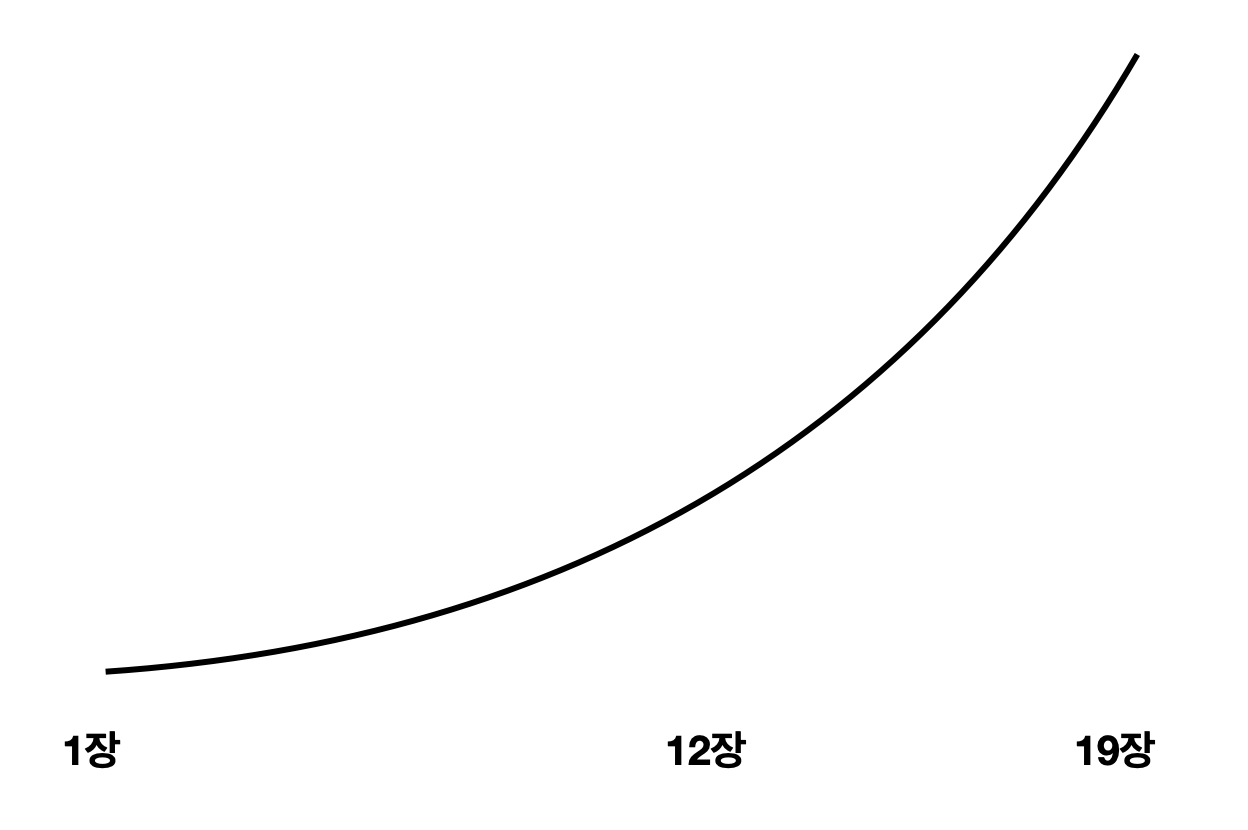
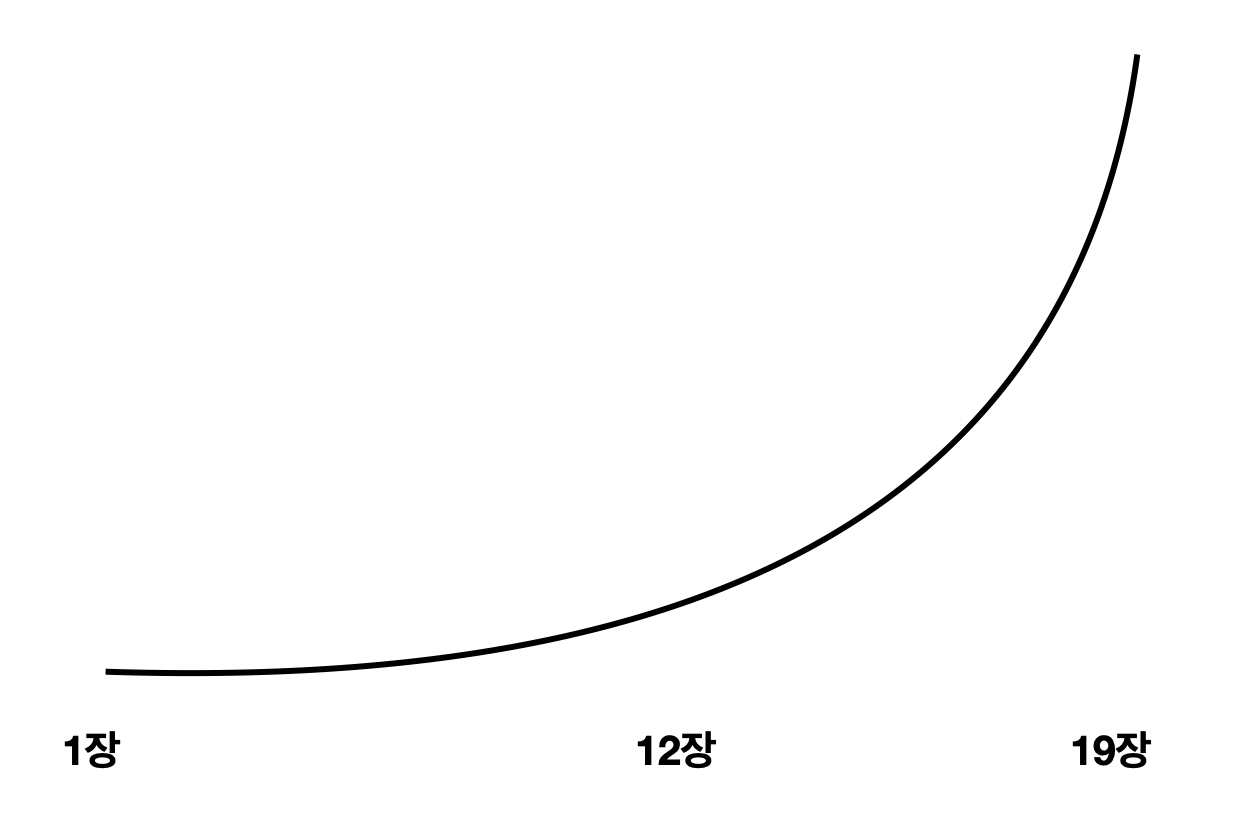
polish

diff --git a/_posts/web-development/book/2023-07-01-typescript-easy-start.md b/_posts/web-development/book/2023-07-01-typescript-easy-start.md
@@ -54,7 +54,7 @@ tags:
 
 ## 대상 독자 - 이 책은 누가 읽어야 하나?
 
-이 책은 서점에 타입스크립트 입문서라고 소개되어 있습니다. 입문서이기 때문에 당연히 타입스크립트를 처음 배우시는 분들이 보기 좋은 책이라고 생각하실 것 같아요. 네, 저도 당연히 타입스크립트를 배우기 전 시점으로 돌아간다면 이 책으로 타입스크립트를 배우고 싶을 것 같아요. 제가 오랜 기간 동안 쓴 책이라서 그런 게 아니라 **제가 여태까지 개발자로서 경험한 모든 타입스크립트의 내용을 집약하고 압축했기 때문입니다.**
+이 책은 서점에 타입스크립트 입문서라고 소개되어 있습니다. 입문서이기 때문에 당연히 타입스크립트를 처음 배우시는 분들이 보기 좋은 책이라고 생각하실 것 같아요. 저도 당연히 타입스크립트를 배우기 전 시점으로 돌아간다면 이 책으로 타입스크립트를 배우고 싶을 것 같아요. 제가 오랜 기간 동안 쓴 책이라서 그런 게 아니라 **제가 여태까지 개발자로서 경험한 모든 타입스크립트의 내용을 집약하고 압축했기 때문입니다.** 과거에 지식을 얻기 위해 보낸 시간들을 훨씬 더 줄여줄 수 있는 책이라고 생각합니다.
 
 그리고, 그 압축된 내용을 최대한 쉽고 직관적으로 받아들일 수 있게 풀어서 쉬운 용어로 설명했습니다. 제가 작업한 이미지가 300개인 줄 몰랐는데 출판사에서 300개라고 하네요.. ㅋㅋ
 
@@ -63,11 +63,11 @@ tags:
 	<figcaption>개념을 쉽게 풀어주는 도식과 결과 화면 이미지</figcaption>
 </figure>
 
-입문서라서 입문자만 읽어야 하는 책은 아닌 거 같아요. 이 책의 편집 과정에서 기술 검수를 네이버 15년 차 FE 개발자와 토스 8년 차 FE 개발자 두 분께 부탁드렸습니다. 그분들도 보시면서 새롭게 배운 내용들이 있었다고 하시더라구요. 여기까지 봤을 때 다음 3가지 포인트 덕택에 입문자와 이미 타입스크립트를 쓰고는 있는데 제대로 쓰고 싶은 실무자 분들이 보시면 좋을 것 같네요.
+입문서라서 입문자만 읽어야 하는 책은 아닙니다. 이 책의 편집 과정에서 기술 검수를 네이버 15년 차 FE 개발자와 토스 8년 차 FE 개발자 두 분께 부탁드렸습니다. 그분들도 보시면서 새롭게 배운 내용들이 있었다고 하시더라구요. 여기까지 봤을 때 다음 3가지 특징 덕택에 입문자와 이미 타입스크립트를 쓰고는 있는데 제대로 쓰고 싶은 실무자 분들이 보시면 좋을 것 같네요.
 
-- 캡틴판교의 모든 타입스크립트 지식을 압축한 결과물
+- 과거 5년 간의 모든 타입스크립트 지식을 압축한 결과물
 - 쉽고 재밌게 배울 수 있는 설명과 300개의 그림
-- 실무 경력이 많은 FE 개발자도 배워갈게 많은 동작 원리와 고급 개념
+- 실무 개발자도 배워갈게 많은 동작 원리와 고급 개념
 
 🍔 한 줄 요약 : 입문자와 실무자가 모두 읽어도 좋은 책
 
@@ -94,7 +94,7 @@ tags:
 	<figcaption>쉽게 시작하는 타입스크립트 체감 학습 곡선</figcaption>
 </figure>
 
-이 가팔라지는 구간이 아마 실무자들이 제일 재밌게 보실만한 부분일 것 같아요. 나는 타입스크립트를 제대로 쓰고 있는 것일까? 타입 에러가 났을 때 아무런 감정의 동요도 없이 빠르게 분석하고 바로 해결할 수 있는 사람인가? 에 대한 답을 이 후반부 챕터들이 제대로 해줄 수 있을 것 같습니다.
+이 가팔라지는 구간이 아마 실무자들이 제일 재밌게 보실만한 부분일 것 같아요. 나는 타입스크립트를 제대로 쓰고 있는 것일까? 타입 에러가 났을 때 아무런 감정의 동요도 없이 빠르게 분석하고 바로 해결할 수 있는 사람인가? 에 대한 답을 이 후반부 챕터들이 해줄 수 있을 것 같습니다.
 
 실제로 마지막 19장의 웹팩, 외부 라이브러리의 타입 정의 방법 등은 제가 알고 있는 꿀팁을 마구 담았습니다. 저도 실무에서 개발할 때 고민하고 처음에 어려워했었던 지점이었거든요.
 
